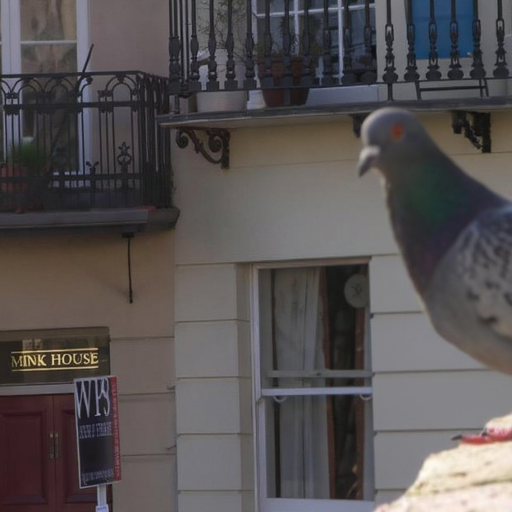
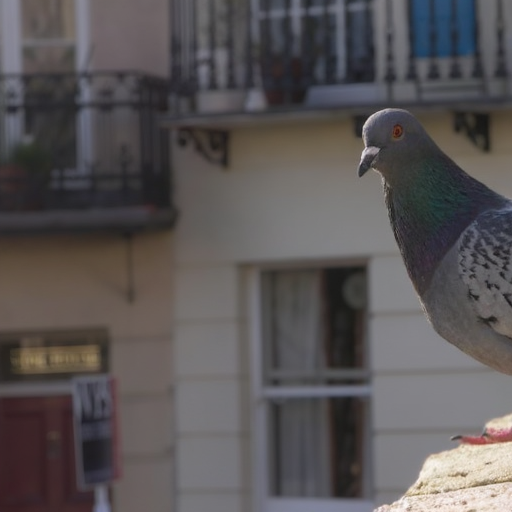
update  interactive refocusing

diff --git a/index.html b/index.html
@@ -854,7 +854,7 @@
       </div>
     </section>
 
-    <canvas id="maskCanvas_-1" class="hidden-canvas"></canvas>
+    <canvas id="maskCanvas_0" class="hidden-canvas"></canvas>
     <canvas id="maskCanvas_1" class="hidden-canvas"></canvas>
     <canvas id="maskCanvas_2" class="hidden-canvas"></canvas>
 
@@ -1262,17 +1262,17 @@
         setupSlider('failureSlider')
 
         // 8. Interactive
-        const REGIONS = ['-1', '1', '2']
-        const K_FILES = ['0', '1.0', '3.0', '5.0', '7.0', '9.0', '11.0', '13.0', '15.0', '17.0', '19.0']
+        const REGIONS = ['0', '1', '2']
+        const K_FILES = ['0', '1.0','2.0', '3.0','4.0', '5.0','6.0', '7.0','8.0', '9.0','10.0', '11.0','12.0', '13.0','14.0', '15.0','16.0', '17.0','18.0', '19.0','20.0']
         let currentRegion = '1'
         let currentKIndex = 8
         const mainImage = document.getElementById('mainImage')
         const kSlider = document.getElementById('kSlider')
         const pointerOverlay = document.getElementById('pointerOverlay')
         const MASK_DATA = {
[6 lines of base64/hex data omitted]
         }
 
         const masks = {}
